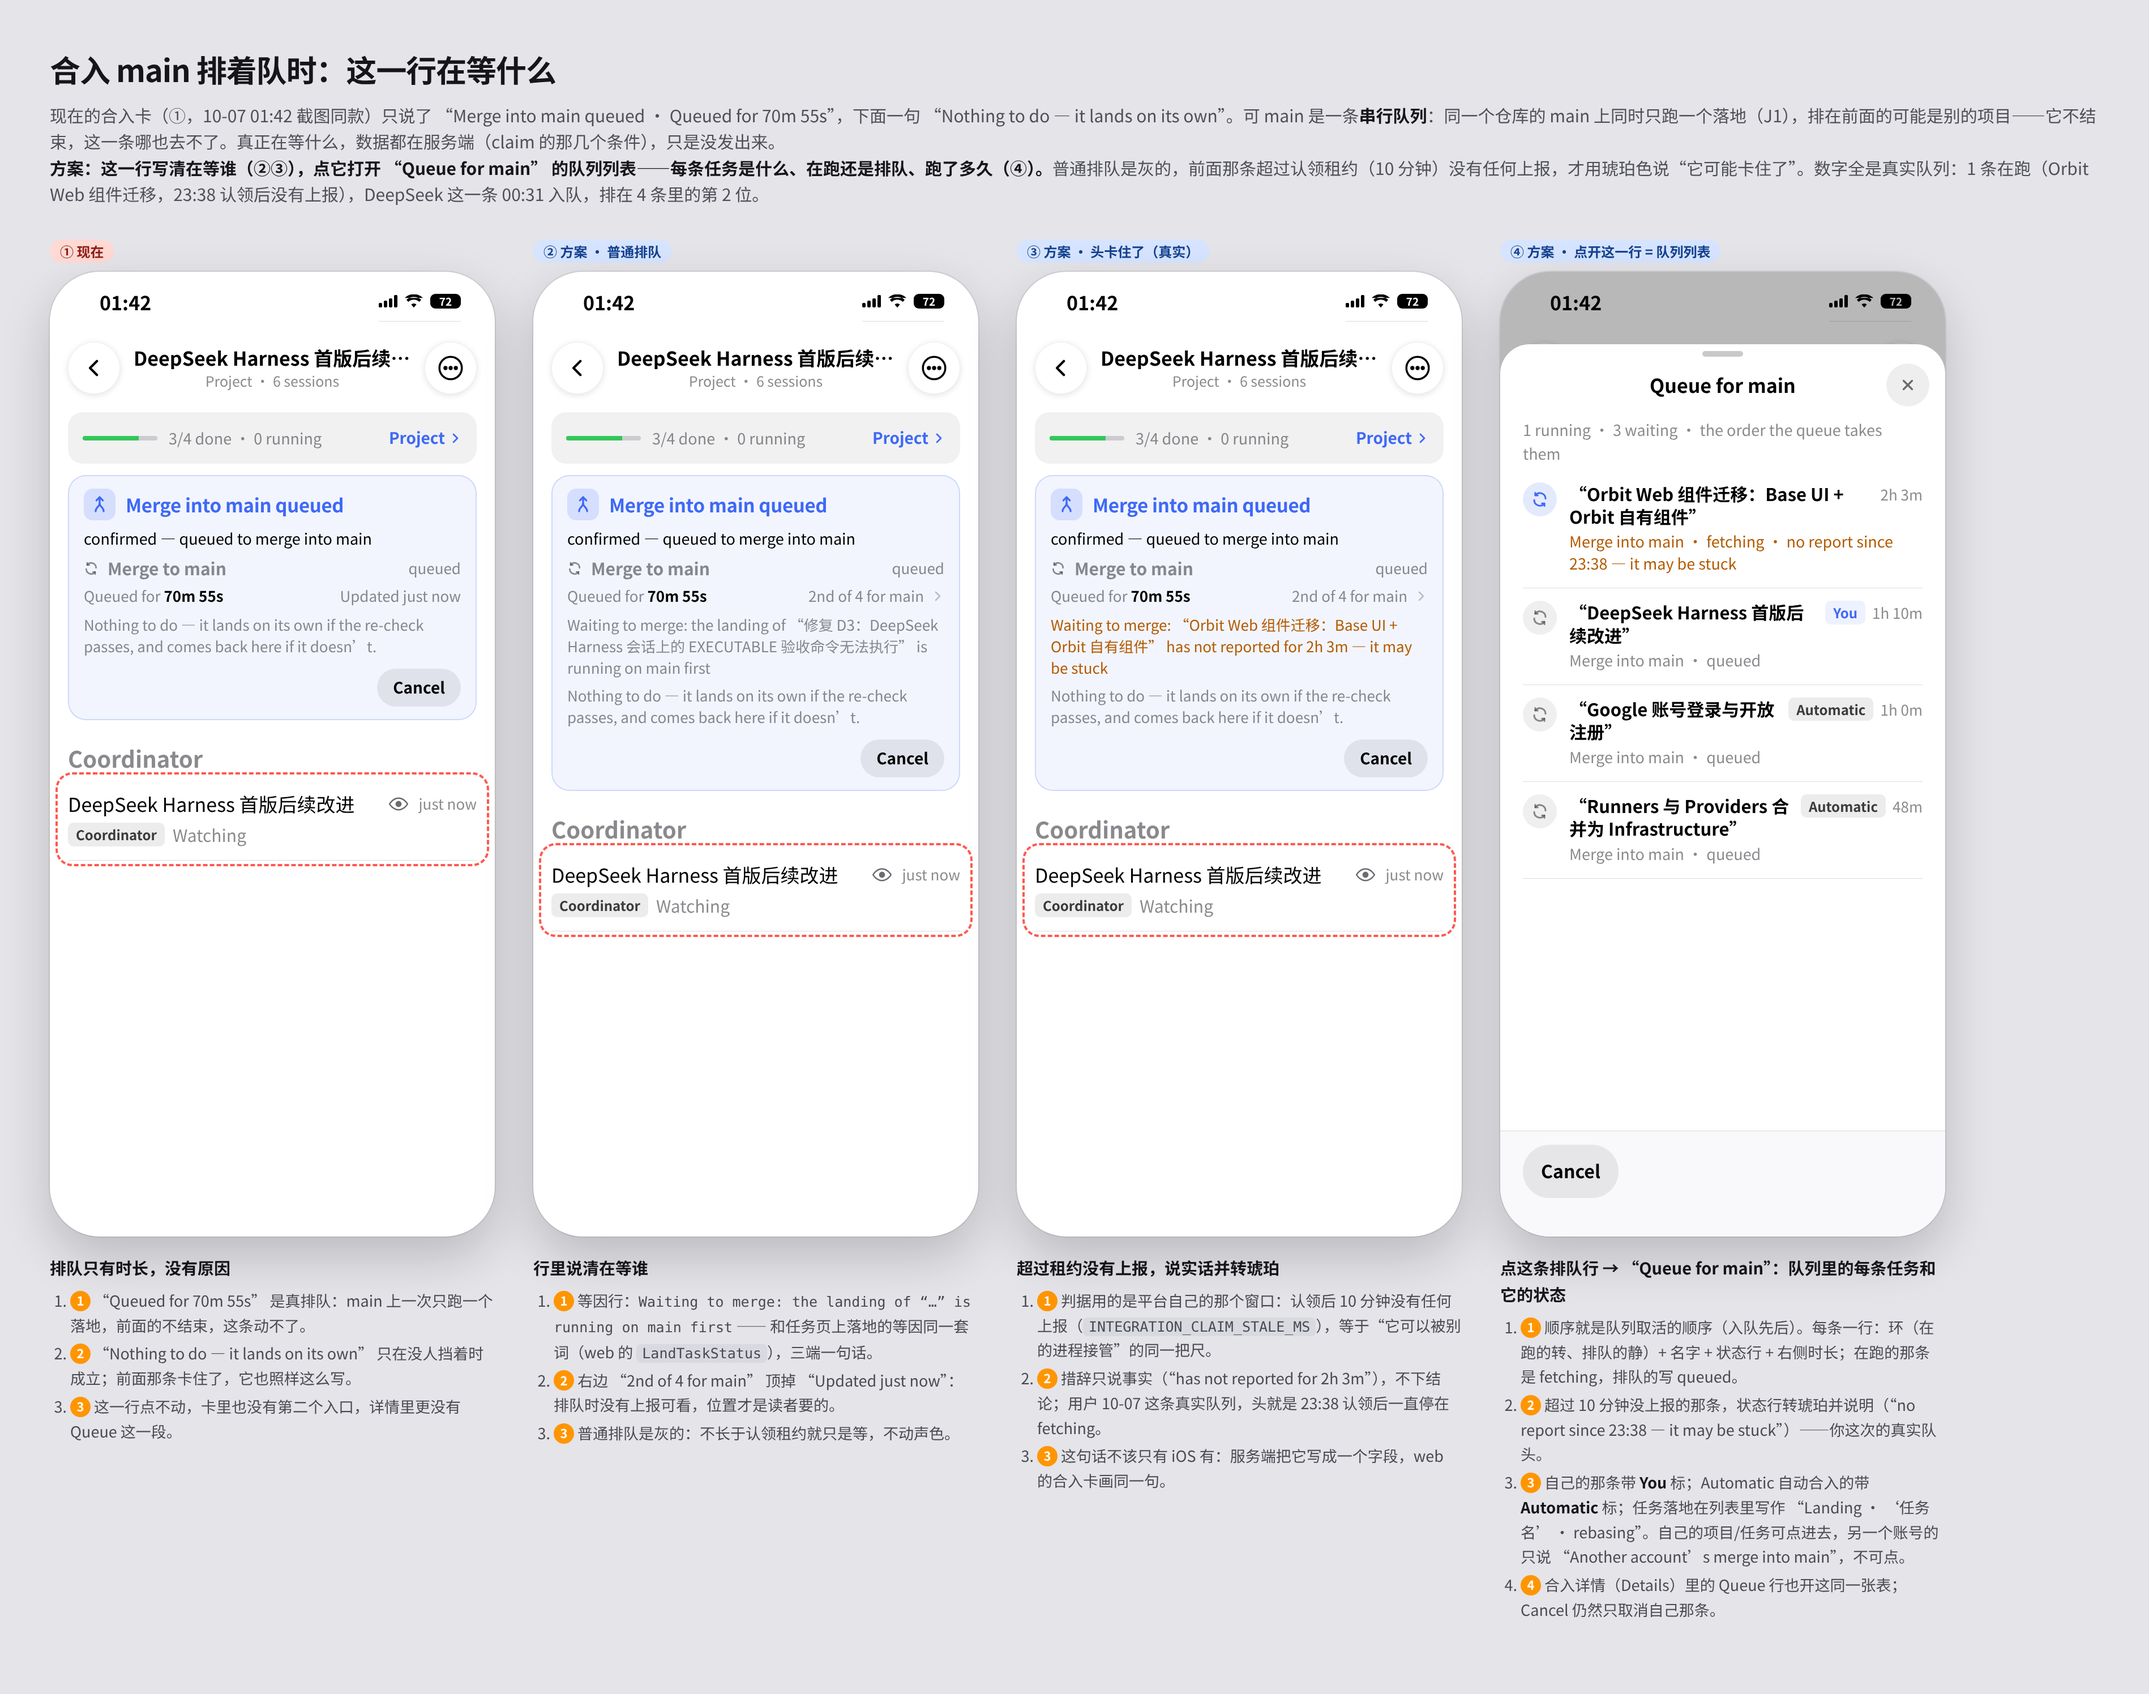
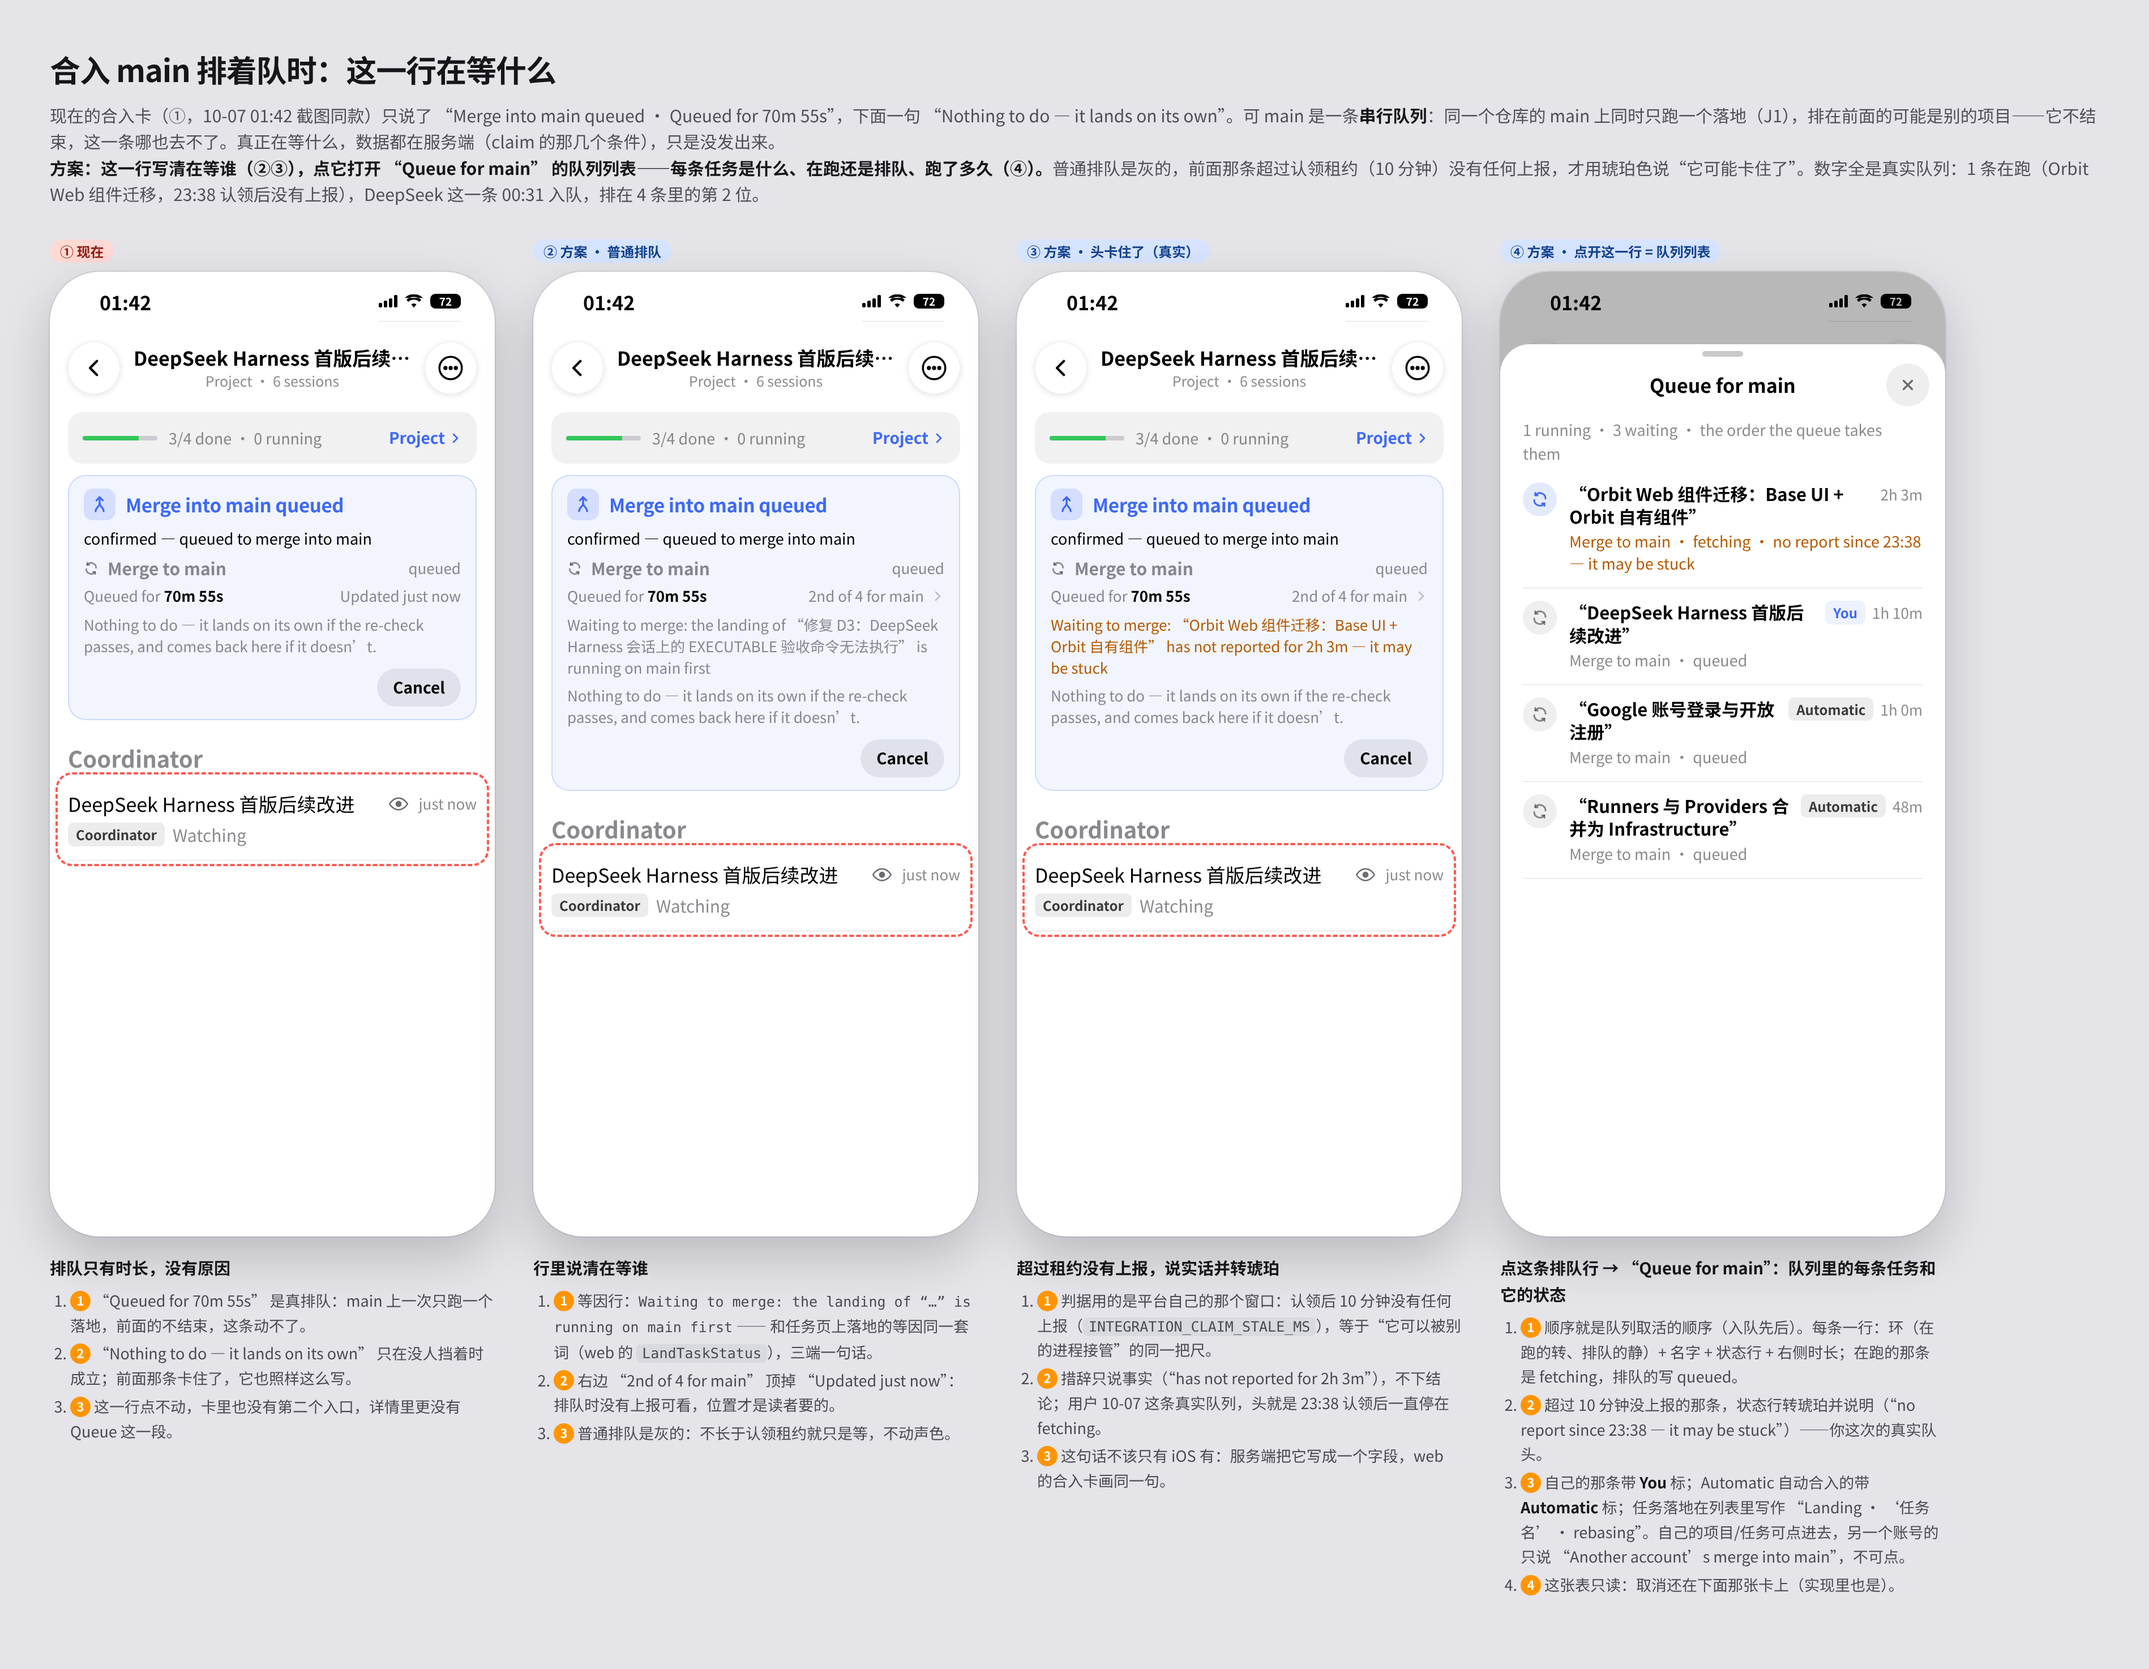
docs(mocks): the queue board matches what shipped — Merge to main, read-only sheet

diff --git a/docs/mocks/merge-queue-wait/01-queue-wait.html b/docs/mocks/merge-queue-wait/01-queue-wait.html
@@ -75,14 +75,14 @@ const s = `<div class="dimbg"></div><div class="sheet"><div class="grab"></div>
 <div class="sn">Queue for main<span class="x">${ic('x', 15, 'rgba(60,60,67,.75)', 2.6)}</span></div><div class="sb">
 <div class="qhead">1 running · 3 waiting · the order the queue takes them</div>
 ${qrow({ run: true, title: '“' + HOLDER_PROJ + '”', right: '2h 3m',
-        sub: 'Merge into main · fetching · no report since 23:38 — it may be stuck', amber: true })}
+        sub: 'Merge to main · fetching · no report since 23:38 — it may be stuck', amber: true })}
 ${qrow({ title: '“' + PROJ + '”', chips: '<span class="chip you">You</span>', right: '1h 10m',
-        sub: 'Merge into main · queued' })}
+        sub: 'Merge to main · queued' })}
 ${qrow({ title: '“Google 账号登录与开放注册”', chips: '<span class="chip">Automatic</span>', right: '1h 0m',
-        sub: 'Merge into main · queued' })}
+        sub: 'Merge to main · queued' })}
 ${qrow({ title: '“Runners 与 Providers 合并为 Infrastructure”', chips: '<span class="chip">Automatic</span>', right: '48m',
-        sub: 'Merge into main · queued' })}
-</div><div class="bar"><span class="btn sec">Cancel</span></div></div>`;
+        sub: 'Merge to main · queued' })}
+</div></div>`;
 const d = phone(`${statusBar('01:42')}${navReal(6)}<div class="list">${progCard(3, 4, 0)}${cardQueued()}</div>${s}`);
 
 document.getElementById('figs').innerHTML = [
@@ -102,7 +102,7 @@ document.getElementById('figs').innerHTML = [
 <li>${n(1)}顺序就是队列取活的顺序（入队先后）。每条一行：环（在跑的转、排队的静）+ 名字 + 状态行 + 右侧时长；在跑的那条是 fetching，排队的写 queued。</li>
 <li>${n(2)}超过 10 分钟没上报的那条，状态行转琥珀并说明（“no report since 23:38 — it may be stuck”）——你这次的真实队头。</li>
 <li>${n(3)}自己的那条带 <b>You</b> 标；Automatic 自动合入的带 <b>Automatic</b> 标；任务落地在列表里写作 “Landing · ‘任务名’ · rebasing”。自己的项目/任务可点进去，另一个账号的只说 “Another account’s merge into main”，不可点。</li>
-<li>${n(4)}合入详情（Details）里的 Queue 行也开这同一张表；Cancel 仍然只取消自己那条。</li></ol>`),
+<li>${n(4)}这张表只读：取消还在下面那张卡上（实现里也是）。</li></ol>`),
 ].join('');
 
 // shot.sh 从 title 里读 SIZE
